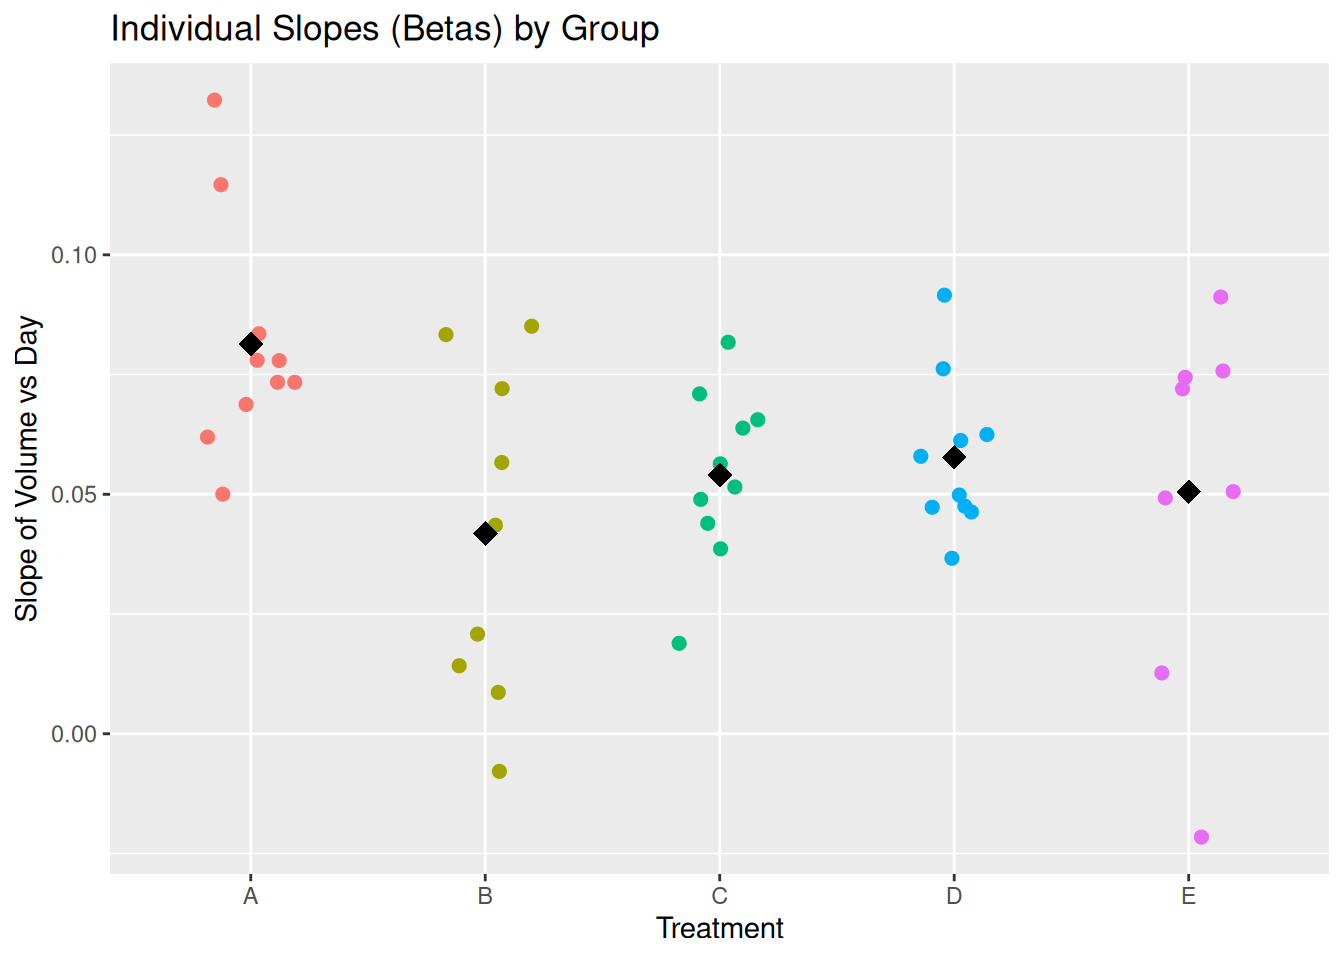
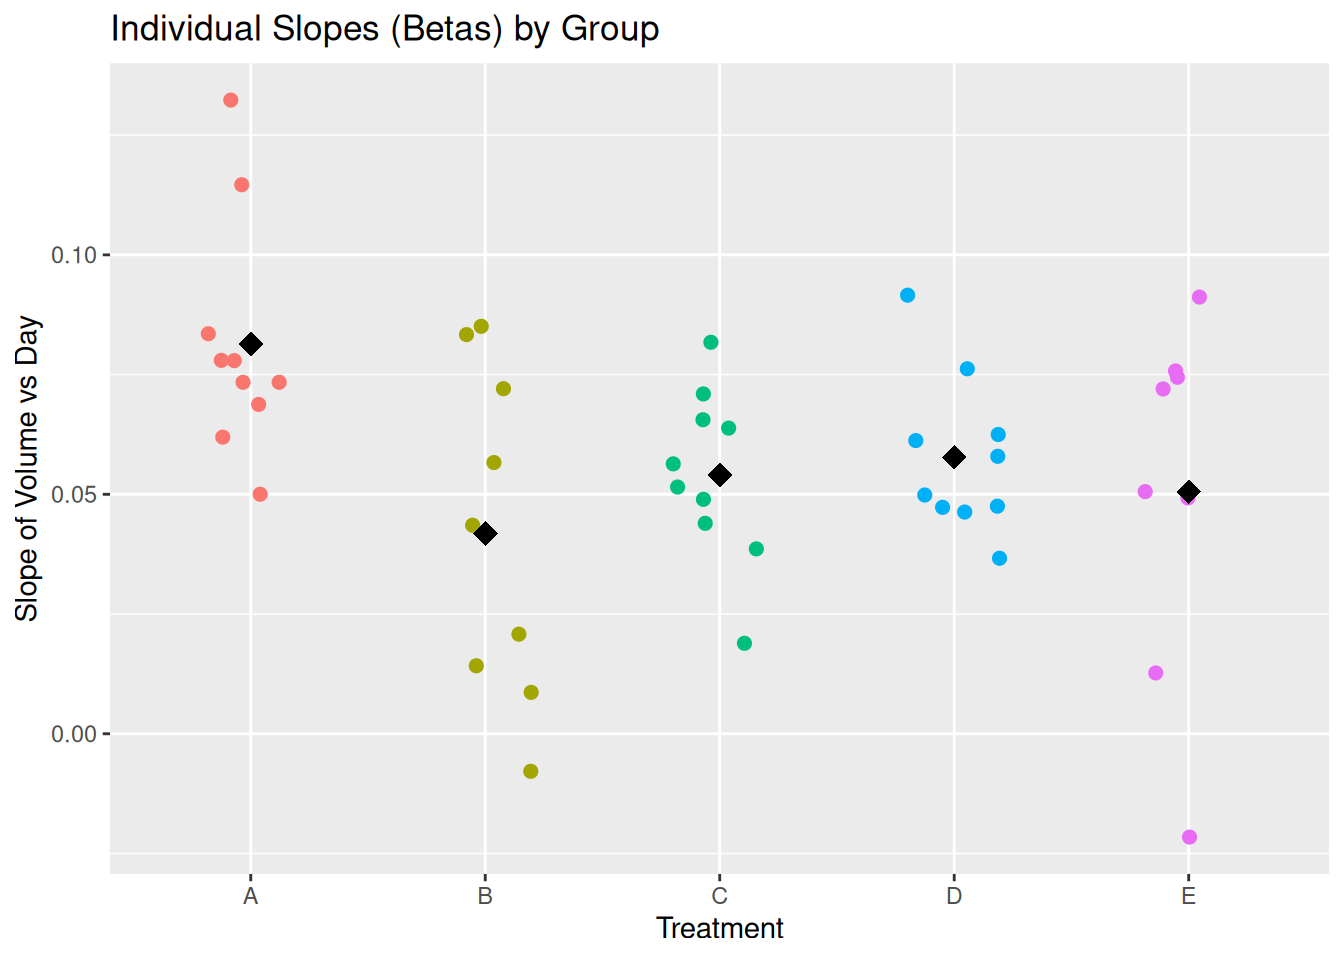
Deploying to gh-pages from @ pbreheny/tumr@c99bfc12a4a2a7d840338533df9558943bfcdf9f 🚀

diff --git a/404.html b/404.html
@@ -73,7 +73,7 @@ Content not found. Please use links in the navbar.
 </div>
 
 <div class="pkgdown-footer-right">
-  <p>Last updated: May 26, 2026</p>
+  <p>Last updated: May 27, 2026</p>
 </div>
 
     </footer>

diff --git a/articles/bhm.html b/articles/bhm.html
@@ -397,7 +397,7 @@ $trace_slope_diff</code></pre>
 </div>
 
 <div class="pkgdown-footer-right">
-  <p>Last updated: May 26, 2026</p>
+  <p>Last updated: May 27, 2026</p>
 </div>
 
     </footer>

diff --git a/articles/data.html b/articles/data.html
@@ -257,7 +257,7 @@
 </div>
 
 <div class="pkgdown-footer-right">
-  <p>Last updated: May 26, 2026</p>
+  <p>Last updated: May 27, 2026</p>
 </div>
 
     </footer>

diff --git a/articles/index.html b/articles/index.html
@@ -58,7 +58,7 @@
 </div>
 
 <div class="pkgdown-footer-right">
-  <p>Last updated: May 26, 2026</p>
+  <p>Last updated: May 27, 2026</p>
 </div>
 
     </footer></div>

diff --git a/articles/troubleshooting.html b/articles/troubleshooting.html
@@ -339,7 +339,7 @@ Adding another scale for y, which will replace the existing scale.</code></pre>
 </div>
 
 <div class="pkgdown-footer-right">
-  <p>Last updated: May 26, 2026</p>
+  <p>Last updated: May 27, 2026</p>
 </div>
 
     </footer>

diff --git a/articles/tumr.html b/articles/tumr.html
@@ -612,7 +612,7 @@ $summary
 </div>
 
 <div class="pkgdown-footer-right">
-  <p>Last updated: May 26, 2026</p>
+  <p>Last updated: May 27, 2026</p>
 </div>
 
     </footer>

diff --git a/authors.html b/authors.html
@@ -80,7 +80,7 @@ R package version 0.6.1, <a href="https://pbreheny.github.io/tumr/">https://pbre
 </div>
 
 <div class="pkgdown-footer-right">
-  <p>Last updated: May 26, 2026</p>
+  <p>Last updated: May 27, 2026</p>
 </div>
 
     </footer></div>

diff --git a/index.html b/index.html
@@ -138,7 +138,7 @@
 </div>
 
 <div class="pkgdown-footer-right">
-  <p>Last updated: May 26, 2026</p>
+  <p>Last updated: May 27, 2026</p>
 </div>
 
     </footer>

diff --git a/reference/bhm.html b/reference/bhm.html
@@ -97,7 +97,7 @@ Set <code>cens = NULL</code> (default) to fit the non-censored model.</p></dd>
 </div>
 
 <div class="pkgdown-footer-right">
-  <p>Last updated: May 26, 2026</p>
+  <p>Last updated: May 27, 2026</p>
 </div>
 
     </footer></div>

diff --git a/reference/breast.html b/reference/breast.html
@@ -96,7 +96,7 @@ NR = nicotinamide riboside</p></dd>
 </div>
 
 <div class="pkgdown-footer-right">
-  <p>Last updated: May 26, 2026</p>
+  <p>Last updated: May 27, 2026</p>
 </div>
 
     </footer></div>

diff --git a/reference/check_exp.html b/reference/check_exp.html
@@ -90,7 +90,7 @@
 </div>
 
 <div class="pkgdown-footer-right">
-  <p>Last updated: May 26, 2026</p>
+  <p>Last updated: May 27, 2026</p>
 </div>
 
     </footer></div>

diff --git a/reference/gendat.html b/reference/gendat.html
@@ -98,7 +98,7 @@
 </div>
 
 <div class="pkgdown-footer-right">
-  <p>Last updated: May 26, 2026</p>
+  <p>Last updated: May 27, 2026</p>
 </div>
 
     </footer></div>